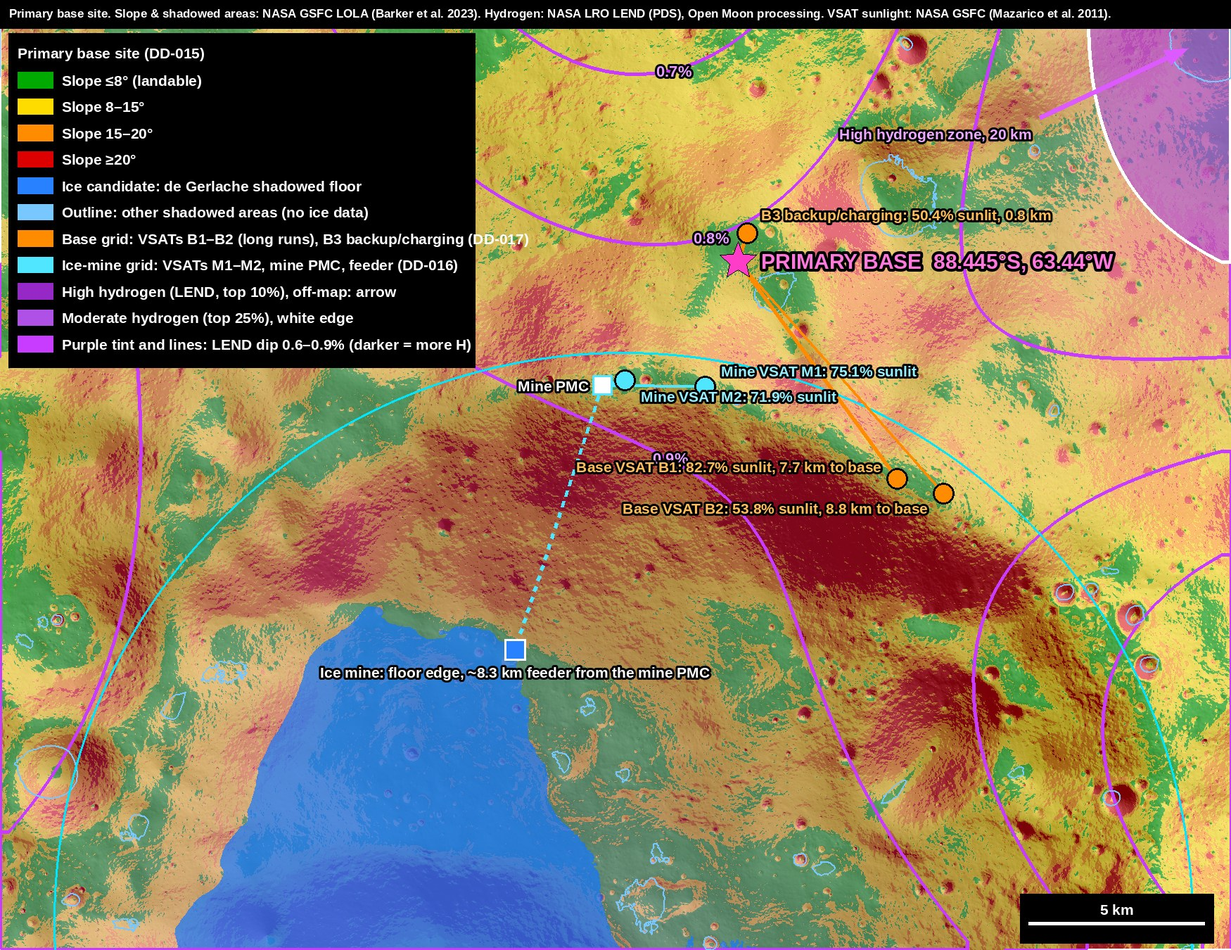
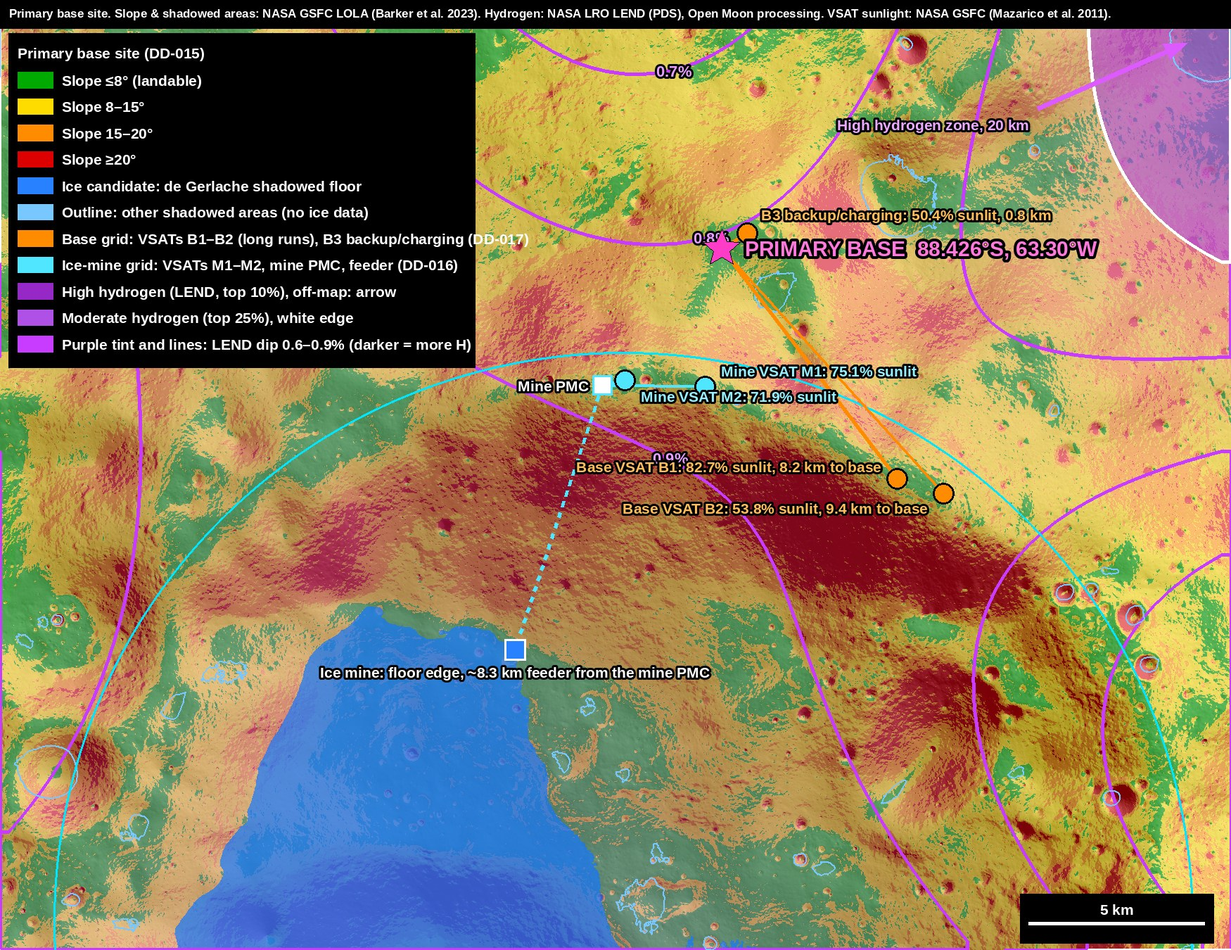
Primary base moved to the flat-patch centre (DD-020); site page trimmed; technology list updated
Claude-Session: https://claude.ai/code/session_01EMgvSv8Ki6A9jj7v8eiV3S

diff --git a/_layouts/milestone.html b/_layouts/milestone.html
@@ -12,8 +12,8 @@ section: plan
     <div class="note">{{ page.summary }}</div>
     {% if page.content_first %}<div class="prose">{{ content }}</div>{% endif %}
 
-    <div class="sec-h">Objective</div>
-    <div class="prose"><p>{{ page.objective }}</p></div>
+    {% if page.objective %}<div class="sec-h">Objective</div>
+    <div class="prose"><p>{{ page.objective }}</p></div>{% endif %}
 
     {% if page.exit_criteria %}
     <div class="sec-h">Exit criteria · what "done" means</div>

diff --git a/analysis/hydrogen/mk_primary.py b/analysis/hydrogen/mk_primary.py
@@ -8,8 +8,9 @@ from hydro import supp_grid, THR, ZMIN
 from PIL import Image, ImageDraw, ImageFont
 PSR, OUT = sys.argv[1], sys.argv[2]
 font = lambda sz: ImageFont.truetype(FB, int(sz))
-base = lonlat2m(-88.4453, -63.44); mine = lonlat2m(-88.3664, -78.31)
-cx, cy = (base[0] * 0.45 + mine[0] * 0.55), (base[1] * 0.45 + mine[1] * 0.55)
+frame_base = lonlat2m(-88.4453, -63.44)   # map frame stays as first drawn
+base = lonlat2m(-88.4262, -63.30); mine = lonlat2m(-88.3664, -78.31)   # primary base moved to the flat-patch centre (DD-020)
+cx, cy = (frame_base[0] * 0.45 + mine[0] * 0.55), (frame_base[1] * 0.45 + mine[1] * 0.55)
 HW, HH = 17500, 13500; RES = 20
 B = (cx - HW, cy - HH, cx + HW, cy + HH)
 s = read('LDSM_83S_10MPP_ADJ', B, RES); h = np.nan_to_num(read('LDEM_83S_10MPP_ADJ_HILL', B, RES)); H, W = s.shape
@@ -113,7 +114,7 @@ pts = []
 for i in range(10):
     ang = math.pi / 2 + i * math.pi / 5; R_ = 22 * k if i % 2 == 0 else 10 * k; pts.append((bx + R_ * math.cos(ang), by - R_ * math.sin(ang)))
 dr.polygon(pts, fill=(255, 60, 200), outline='black')
-dr.text((bx + 26 * k, by), 'PRIMARY BASE  88.445°S, 63.44°W', font=F, fill=(255, 120, 220), anchor='lm', stroke_width=4, stroke_fill=(0, 0, 0))
+dr.text((bx + 26 * k, by), 'PRIMARY BASE  88.426°S, 63.30°W', font=F, fill=(255, 120, 220), anchor='lm', stroke_width=4, stroke_fill=(0, 0, 0))
 # legend
 rows = [((0, 170, 0), 'Slope ≤8° (landable)'), ((255, 220, 0), 'Slope 8–15°'), ((255, 140, 0), 'Slope 15–20°'), ((220, 0, 0), 'Slope ≥20°'),
         ((40, 130, 255), 'Ice candidate: de Gerlache shadowed floor'), ((120, 200, 255), 'Outline: other shadowed areas (no ice data)'),

diff --git a/analysis/hydrogen/mk_overview.py b/analysis/hydrogen/mk_overview.py
@@ -9,9 +9,10 @@ from hydro import supp_grid, THR, ZMIN
 from PIL import Image, ImageDraw, ImageFont
 PSR, OUT = sys.argv[1], sys.argv[2]
 font = lambda sz: ImageFont.truetype(FB, int(sz))
-base = lonlat2m(-88.4453, -63.44); mine = lonlat2m(-88.3664, -78.31)
+frame_base = lonlat2m(-88.4453, -63.44)   # map frame stays as first drawn
+base = lonlat2m(-88.4262, -63.30); mine = lonlat2m(-88.3664, -78.31)   # primary base moved to the flat-patch centre (DD-020)
 backup = lonlat2m(-89.559, -163.66); shack = lonlat2m(-89.67, 129.78)
-KEY = [base, mine, backup, shack, lonlat2m(-88.7108, -68.28), lonlat2m(-88.5, -87.1)]
+KEY = [frame_base, mine, backup, shack, lonlat2m(-88.7108, -68.28), lonlat2m(-88.5, -87.1)]
 xs_k = [p[0] for p in KEY]; ys_k = [p[1] for p in KEY]; M = 9000; RES = 40
 B = (min(xs_k) - M, min(ys_k) - M, max(xs_k) + M, max(ys_k) + M + 6000)
 s = read('LDSM_83S_10MPP_ADJ', B, RES); h = np.nan_to_num(read('LDEM_83S_10MPP_ADJ_HILL', B, RES)); H, W = s.shape
@@ -101,7 +102,7 @@ r = 11 * k; dr.rectangle((mx - r, my - r, mx + r, my + r), fill=(40, 130, 255), 
 txt(mx, my + 18 * k, 'Ice mine', 'white', 'mt')
 star(bx, by, (255, 60, 200), 26)
 txt(bx + 28 * k, by - 6 * k, 'PRIMARY BASE', (255, 120, 220), 'lb', F)
-txt(bx + 28 * k, by + 2 * k, '88.445°S, 63.44°W', (255, 160, 230), 'lt')
+txt(bx + 28 * k, by + 2 * k, '88.426°S, 63.30°W', (255, 160, 230), 'lt')
 # ---- backup: Connecting ridge trio on 3 km runs to a ridge PMC, extended run to the base
 AV = [('A1', -89.4745, -137.53, 81.9), ('A2', -89.3807, -140.91, 59.6), ('A3', -89.4176, -134.94, 48.3)]
 rp = P2(-89.438, -137.65); kx, ky = m2p(*backup)

diff --git a/analysis/hydrogen/mk_lhi.py b/analysis/hydrogen/mk_lhi.py
@@ -103,7 +103,7 @@ for la, lo in ((-88.4657, -67.87), (-88.3937, -68.69)):
     r = 9 * k; dr.ellipse((x - r, y - r, x + r, y + r), fill=ICE, outline='black', width=2)
 r = 10 * k; dr.rectangle((mine[0] - r, mine[1] - r, mine[0] + r, mine[1] + r), fill=(40, 130, 255), outline='white', width=2)
 dr.text((mine[0], mine[1] + 16 * k), 'Ice mine (floor edge)', font=Fs, fill='white', anchor='mt', stroke_width=3, stroke_fill=(0, 0, 0))
-_star(-88.4453, -63.44, (255, 60, 200), 'PRIMARY base', 'r')
+_star(-88.4262, -63.30, (255, 60, 200), 'PRIMARY base', 'r')
 _star(-89.5587, -163.66, (200, 120, 255), 'Backup base', 'r')
 # group labels for spots within ~1.5 km (37 px at 40 m/px)
 groups = []

diff --git a/_milestones/m00-site-selection.md b/_milestones/m00-site-selection.md
@@ -6,7 +6,6 @@ phase: 0
 content_first: true
 window: "Before Year 0"
 summary: The primary and backup base sites, chosen from lunar orbiter data before Year 0.
-objective: "Choose a primary and a backup site near the lunar south pole that give the most sunlight, an access route to permanently shadowed ice, safe terrain for landing and building, and workable communications with Earth."
 trl_min: 9
 depends_on: []
 spec:
@@ -17,19 +16,15 @@ cost: {low: 0.045, high: 0.13, note: "people and computing only; no flight hardw
 cost_items:
   - {item: "Core engineering team, 2 years", low: 0.04, high: 0.11, basis: "ESTIMATE: 60–150 full-time staff at ~$350k loaded cost per year"}
   - {item: "Computing, data processing, illumination modelling", low: 0.005, high: 0.02, basis: "ESTIMATE"}
-exit_criteria:
-  - "Primary and backup sites chosen, each with sunlit ground for solar towers and a shadowed crater that may hold ice (done, DD-015)."
-  - "Every landing point on ground of 8° or less (done for both sites from LOLA slope; pads confirmed in M05)."
-  - "Solar tower layout and its sunlight modelled over an 18.6-year cycle for each site (done, ESTIMATE)."
-  - "Hydrogen and ice-candidate maps published, with prospecting targets handed to M01 (done)."
-  - "Open checks handed on: boulder and fault-scarp hazard maps per pad (M05), Earth-visibility hours (M03)."
 technologies:
-  - {name: "Lunar Reconnaissance Orbiter (LRO)", use: "Terrain, imagery, temperature and radar data for site selection", status: "Operating; FY2026 budget request continues operations to support CLPS deliveries, landing-site characterisation and Artemis", trl: 9, src: 1}
-  - {name: "ShadowCam on KPLO/Danuri", use: "Images inside permanently shadowed craters", status: "Operating in extended mission; expected to end in early 2028 when its battery runs out in a lunar eclipse", trl: 9, src: 2}
-  - {name: "NASA Artemis south-pole candidate regions", use: "Starting shortlist of pre-screened regions", status: "9 regions published Oct 2024 (for Artemis III)", trl: 9, src: 3}
-  - {name: "LRO LOLA slope and shadow maps (NASA GSFC)", use: "Slope classes and permanently shadowed region outlines for the focus area", status: "10 m/px south-pole products published 2023 (Barker et al.)", trl: 9, src: 10}
+  - {name: "LRO Lunar Orbiter Laser Altimeter (LOLA): slope, elevation and shadow maps (NASA GSFC)", use: "Slope classes, flat-ground areas, permanently shadowed (ice-candidate) floors, terrain for the sunlight model", status: "10 m/px south-pole products published 2023 (Barker et al.); LRO still operating, PDS data release 67 in Sep 2026", trl: 9, src: 10}
+  - {name: "NASA GSFC average illumination maps", use: "Where solar towers can go (average sunlight over 18.6 years)", status: "Published product (Mazarico et al. 2011)", trl: 9, src: 19}
+  - {name: "LRO Camera (LROC) NAC south-pole mosaics", use: "1 m/px images of the base site; Shackleton–de Gerlache Ridge maps", status: "Mosaics in NASA PDS (2024–2025); LROC still imaging", trl: 9, src: 20}
   - {name: "LRO LEND neutron detector", use: "Hydrogen in the top ~1 m", status: "South-polar averaged data 2009–2016 in NASA PDS; ~15 km cells", trl: 9, src: 13}
-  - {name: "Chandrayaan-1 Moon Mineralogy Mapper (M3)", use: "Surface water-ice detections", status: "Ice spectra published 2018, clustered near Shackleton; one example in de Gerlache", trl: 9, src: 16}
+  - {name: "ShadowCam on KPLO/Danuri", use: "Images inside permanently shadowed craters (de Gerlache bright spot)", status: "Operating; latest PDS release 22 May 2026. Expected to end in early 2028", trl: 9, src: 23}
+  - {name: "Chandrayaan-1 Moon Mineralogy Mapper (M3)", use: "Surface water-ice detections", status: "Mission ended 2009; ice spectra published 2018", trl: 9, src: 16}
+  - {name: "NASA Artemis south-pole candidate regions", use: "Starting shortlist of pre-screened regions", status: "9 regions published Oct 2024", trl: 9, src: 8}
+  - {name: "NASA/JPL NAIF SPICE ephemeris (DE421)", use: "Sun positions for Open Moon's 18.6-year sunlight and darkness model", status: "Public generic kernels", trl: 9, src: 24}
 sources:
   - {title: "NASA FY2026 Budget Technical Supplement (Lunar Reconnaissance Orbiter, PS-28/29)", url: "https://www.nasa.gov/wp-content/uploads/2025/05/fy-2026-budget-technical-supplement-002.pdf", date: "May 2025"}
   - {title: "Univ. of Hawaii SOEST: Scarce ice in Moon's darkest regions (ShadowCam)", url: "https://www.soest.hawaii.edu/soestwp/announce/news/scarce-ice-in-moons-darkest-regions/", date: "Mar 2026"}
@@ -52,6 +47,9 @@ sources:
   - {title: "NASA GSFC PGDA: Lunar Polar Illumination (average solar illumination maps; Mazarico et al. 2011, Icarus 211)", url: "https://pgda.gsfc.nasa.gov/products/69", date: "accessed Nov 2026"}
   - {title: "LROC (NASA/GSFC/Arizona State University): NAC south polar maximum-pixel and sub-solar-longitude mosaics, 1 m/px, tile P878S2925, with PDS labels (NASA PDS)", url: "https://pds.mcp.nasa.gov/data/store/img/lunar_reconnaissance_orbiter/pds4/lroc/lro-l-lroc-5-rdr/LROLRC_2001/EXTRAS/BROWSE/NAC_POLE/NAC_POLE_SOUTH_CM_MAX/NAC_POLE_SOUTH_CM_MAX_P878S2925.xml", date: "accessed Nov 2026"}
   - {title: "JPL IPN Progress Report 42-176: Lunar pole illumination and communications maps (Bryant)", url: "https://ipnpr.jpl.nasa.gov/progress_report/42-176/176C.html", date: "Feb 2009"}
+  - {title: "NASA PDS Geosciences Node: Lunar Reconnaissance Orbiter data and release schedule (Release 67, Sep 2026)", url: "https://pds-geosciences.wustl.edu/missions/lro/", date: "accessed Nov 2026"}
+  - {title: "ShadowCam team (NASA/KARI/ASU/Intuitive Machines): ShadowCam PDS Release - June 2026", url: "https://shadowcam.im-ldi.com/news/1479", date: "May 2026"}
+  - {title: "NASA/JPL NAIF: SPICE generic kernels (DE421 planetary ephemeris, lunar orientation)", url: "https://naif.jpl.nasa.gov/naif/data_generic.html", date: "accessed Nov 2026"}
 risks:
   - {sev: High, title: "Ice at both sites is unconfirmed: Shackleton's evidence is mixed and de Gerlache has only two candidate detections", fix: "M01 prospectors measure ice at both crater floors before the base is committed; switch to the backup if the primary fails"}
   - {sev: High, title: "A young fault scarp is mapped in de Gerlache Rim 2, next to the primary site", fix: "Map scarps from LROC NAC images; keep pads, the reactor and habitats clear of young faults (M05)"}
@@ -65,8 +63,8 @@ risks:
 
 *Both base sites with their final power layouts. Slope in four classes, ice-candidate crater floors in blue, hydrogen in purple. Sunlit percentages are from NASA's illumination map. Click any image to see it full size.*
 
-- **Primary:** de Gerlache north rim, 88.445°S, 63.44°W.
-- **Backup:** Connecting ridge by Shackleton, 89.559°S, 163.66°W, 51.2 km away.
+- **Primary:** de Gerlache north rim, 88.426°S, 63.30°W, at the centre of a 4.8 km² patch of flat ground (DD-020).
+- **Backup:** Connecting ridge by Shackleton, 89.559°S, 163.66°W, 51.8 km away.
 
 Both are chosen from orbital data and are to be confirmed on the ground by the M01 prospectors (DD-015).
 
@@ -168,7 +166,7 @@ NASA's VSAT towers give 10 kW each on 5–10 m masts and stand on slopes up to 1
 | Backup: ridge, 3 towers | 93.0% | 4.8 days |
 | Primary: rim, 2 towers | 84.1% | 6.2 days |
 
-The ridge towers sit on ~2 km cables. The primary's towers need 7.7–8.8 km cables.
+The ridge towers sit on ~2 km cables. The primary's towers need 8.2–9.4 km cables.
 
 </div>
 <div class="tp-media" markdown="1">
@@ -190,7 +188,7 @@ Orbiters map hydrogen in the top metre by counting escaping neutrons. A neutron 
 
 NASA's LEND team found the enhancements "near and in areas of permanent shadow"<sup class="r">[12](#s12)</sup>. Open Moon mapped the dip from NASA's LEND data<sup class="r">[13](#s13)</sup>.
 
-The strongest hydrogen in the focus area lies away from the craters: **19.9 km** from the primary and **28.9 km** from the backup.
+The strongest hydrogen in the focus area lies away from the craters: **20.2 km** from the primary and **28.9 km** from the backup.
 
 </div>
 <div class="tp-media" markdown="1">
@@ -263,11 +261,12 @@ window.addEventListener('hashchange',open);open();})();
 
 | | **Primary: de Gerlache north rim** | **Backup: Connecting ridge** |
 |---|---|---|
-| Position | 88.445°S, 63.44°W | 89.559°S, 163.66°W |
-| Slope at site; landable within 1 km | 5.0°; 65% | 5.8°; 69% |
+| Position | 88.426°S, 63.30°W | 89.559°S, 163.66°W |
+| Slope at site; landable within 1 km | 2.1°; 60% | 6.1°; 69% |
+| Connected flat ground (≤8°); widest flat circle | 4.8 km²; 540 m | 9.7 km²; 450 m |
 | Solar towers (ESTIMATE) | 84.1% lit, longest dark 6.2 days | 93.0% lit, longest dark 4.8 days |
 | Nearest ice-candidate floor | 12.7 km (de Gerlache) | 5.2 km (Shackleton) |
-| Nearest high hydrogen | 19.9 km | 28.9 km |
+| Nearest high hydrogen | 20.2 km | 28.9 km |
 | On NASA's 2024 list | Yes (de Gerlache Rim 2) | No (2022 list only) |
 
 *Distances are straight lines.*
@@ -277,20 +276,19 @@ window.addEventListener('hashchange',open);open();})();
 **Pros**
 
 - Inside NASA's de Gerlache Rim 2, a region NASA screened for landing safety, light and Earth visibility<sup class="r">[3](#s3)</sup>.
-- Flat ground: 5.0° at the site, with a 1° spot for B3 0.8 km away.
+- Room to grow: the base is at the centre of 4.8 km² of connected ground at 8° or less, with a fully flat circle 540 m across. B3 stands 0.8 km away on the same patch.
 - The most hydrogen of the two sites, and an ice target with two independent hints.
 
 **Cons**
 
-- Less sun: 84.1% with blackouts of up to 6.2 days, and the base towers need 7.7–8.8 km cables.
+- Less sun: 84.1% with blackouts of up to 6.2 days, and the base towers need 8.2–9.4 km cables.
 - The ice floor is 12.7 km away, so the mine needs its own grid and stops for up to about 14 days at a time.
 - The cables to the mine cross a crater wall that is mostly steeper than 20°.
 - A young fault scarp is mapped in Rim 2<sup class="r">[7](#s7)</sup>.
 
-![LROC NAC maximum-pixel mosaic of the primary base site, 4 by 4 km]({{ '/assets/sites/primary-base-nac-max-4km.jpg' | relative_url }})
-![LROC NAC maximum-pixel mosaic, close-up of the primary base, 1.2 by 1.2 km]({{ '/assets/sites/primary-base-nac-max-1km.jpg' | relative_url }})
+{% include decision-note.html id="DD-020" %}
 
-*The primary base at 1 m per pixel, 4 km and 1.2 km across, from LROC's maximum-pixel mosaic, which shows each spot at its brightest so that most shadows are gone (credit NASA/GSFC/Arizona State University)<sup class="r">[20](#s20)</sup>.*
+<!--SUNLIT-->
 
 ### Backup: Connecting ridge by Shackleton
 
@@ -307,15 +305,3 @@ window.addEventListener('hashchange',open);open();})();
 - Shackleton's ice evidence is mixed.
 - China's Chang'e-7 targets the Shackleton area.
 - No detailed layout yet.
-
-## Status
-
-Site selection is complete. Year 0 is the first landers: prospectors go to both sites to confirm ice (M01), and site preparation begins (M05).
-
-*Open Moon is a plan for how we, as people, could build a self-sustaining Moon colony. It is hypothetical: a proposal, not a programme or organisation.*
-
-Design decisions behind this page:
-
-<ul class="ddlist">{% assign ids = "DD-010,DD-011,DD-012,DD-013,DD-014,DD-015,DD-016,DD-017,DD-018,DD-019" | split: "," %}{% for i in ids %}{% assign d = site.data.decisions | where: "id", i | first %}<li><a href="{{ '/decisions/' | relative_url }}#{{ i | downcase }}">{{ i }}</a> {{ d.title }}</li>{% endfor %}</ul>
-
-Analysis code and data notes are in `analysis/` in the repository.

diff --git a/_milestones/m04-power.md b/_milestones/m04-power.md
@@ -235,7 +235,7 @@ This is the plan's design, simplified to one line per 3-phase circuit. Each sour
 
 The base runs one grid (DD-009). A remote site too far from the base for a power run can have its own isolated grid: its own generation, PMC and storage, with no tie to the base (plan design). The first case is the ice mine at the primary site, 12.7 km from the base: two 10 kW VSATs on the de Gerlache rim feed a mine PMC there, with a feeder down to the mine (M00). The base keeps its own VSATs. Each isolated grid needs its own storage and spares. The ice-mine grid stores only enough to keep its systems minimally alive while it is dark; mining stops until the VSATs are lit again (plan design). Its keep-alive load is not yet sized (open).
 
-**Base VSATs at the primary site (DD-016, DD-017).** B1 (site 5, 7.7 km) and B2 (8.8 km) on extended runs give the base its hours of sunlight; B3, 0.8 km from the base on a standard run, adds redundancy and faster battery charging while the Sun is up (plan design; see M00).
+**Base VSATs at the primary site (DD-016, DD-017).** B1 (site 5, 8.2 km) and B2 (9.4 km) on extended runs (DD-020) give the base its hours of sunlight; B3, 0.8 km from the base on a standard run, adds redundancy and faster battery charging while the Sun is up (plan design; see M00).
 
 {% include decision-note.html id="DD-017" %}
 
